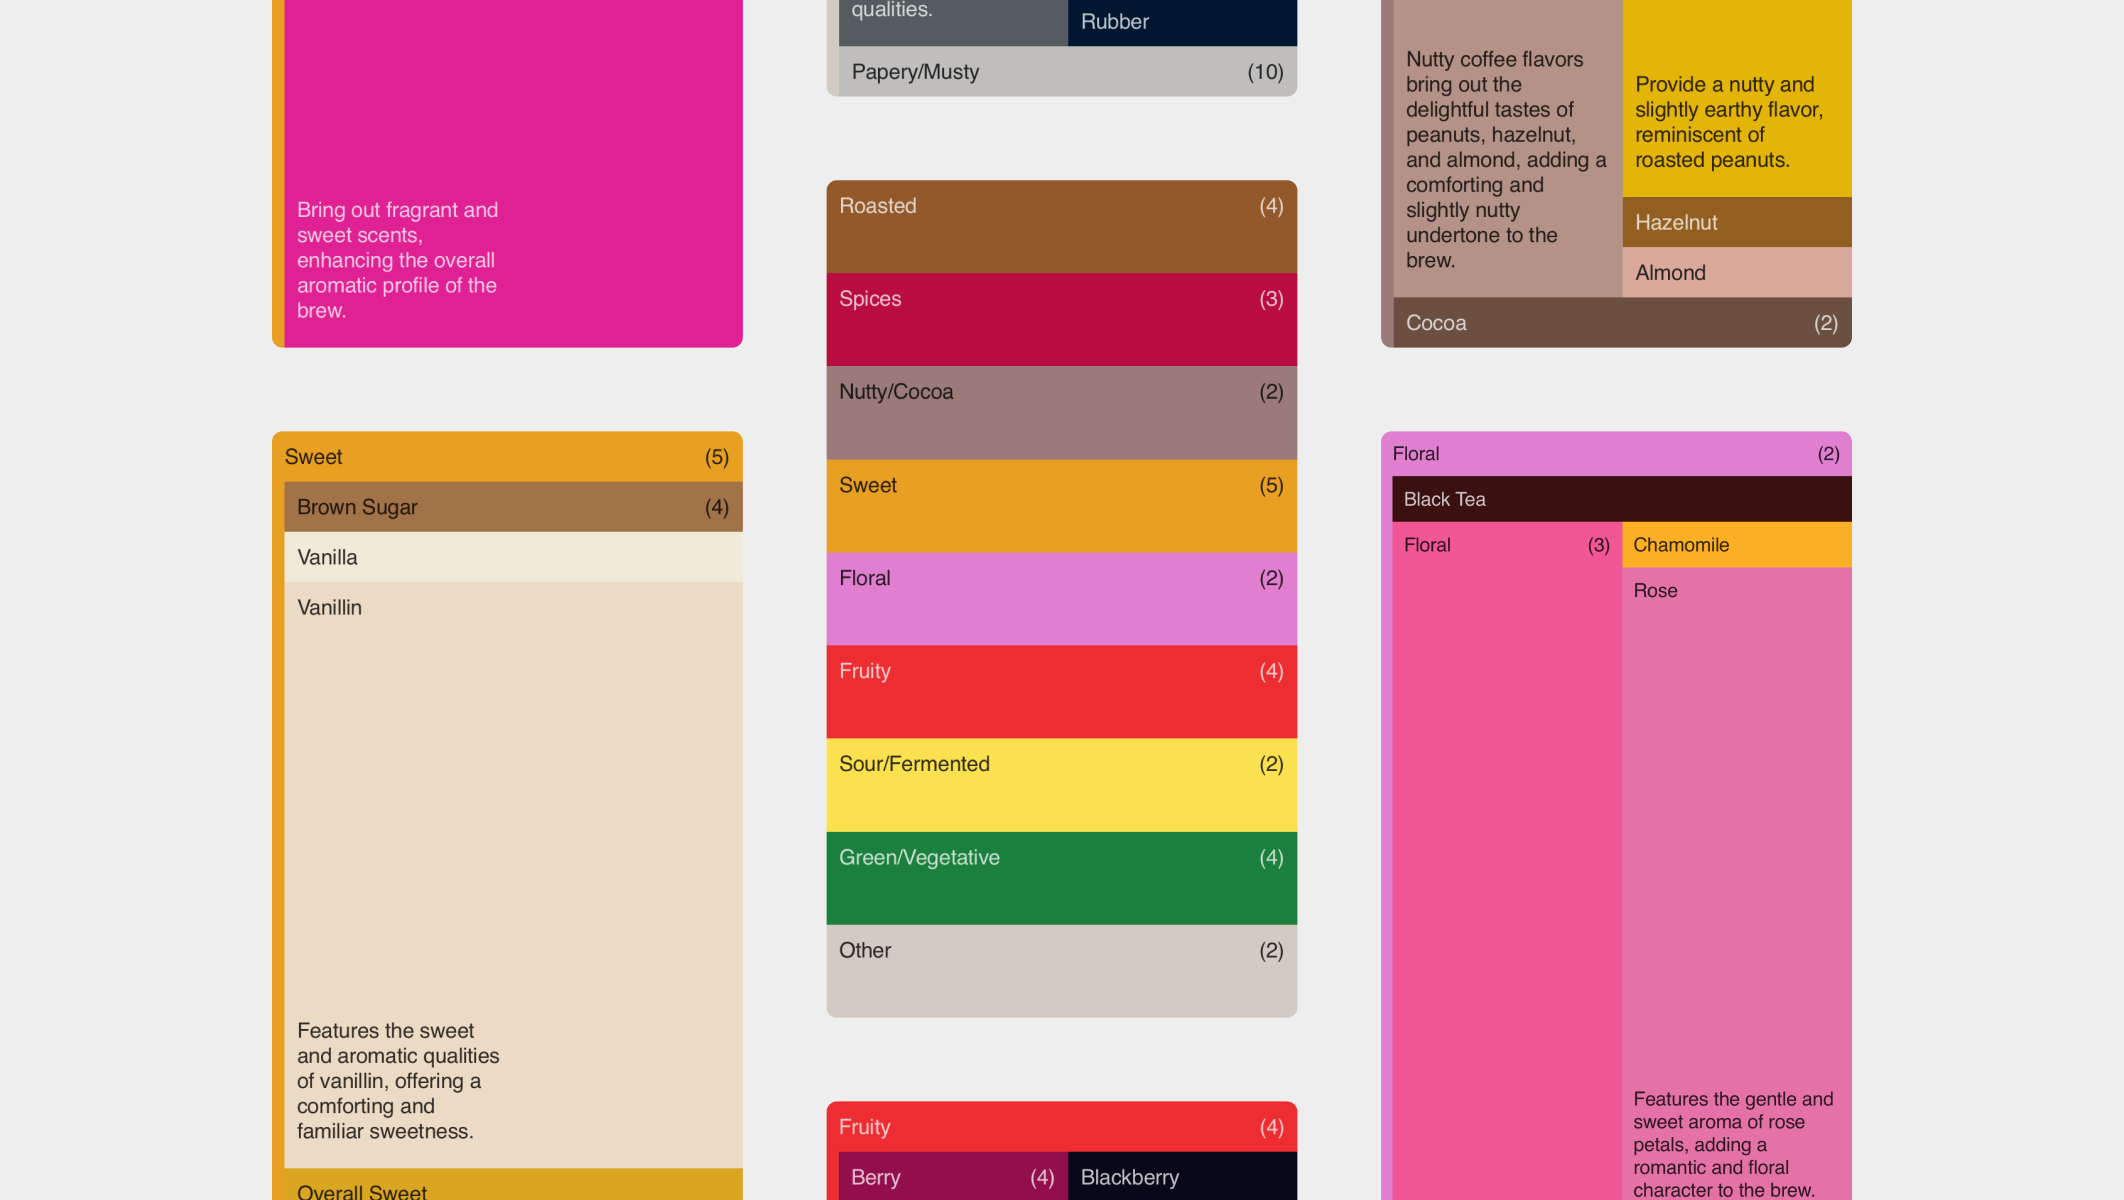
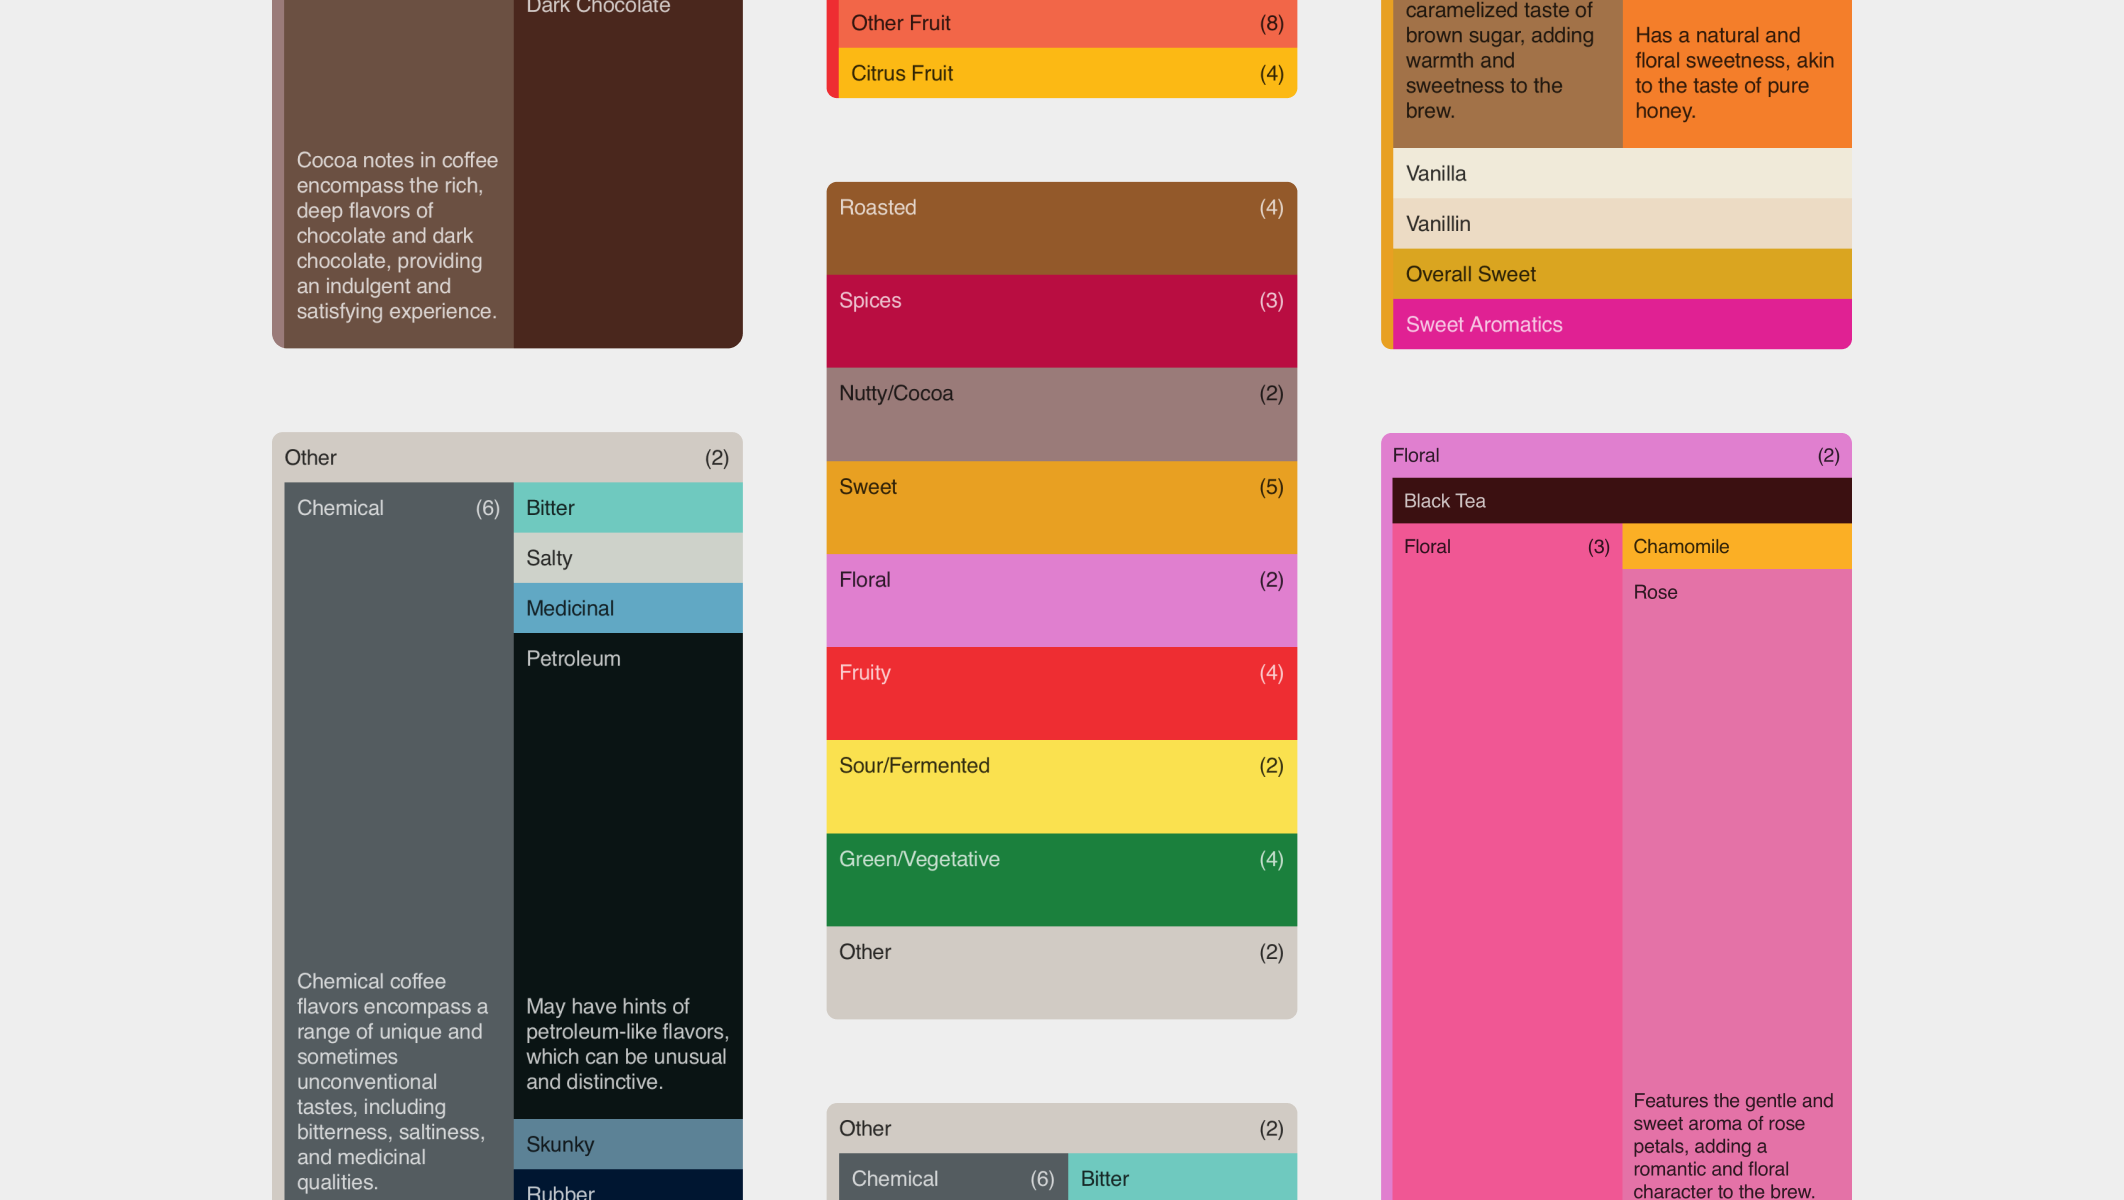
Add flavor tree

diff --git a/index.html b/index.html
@@ -102,12 +102,14 @@
             </div>
 
             <!-- Flavor Tree -->
-            <div class="hidden work-container">
+            <div class="work-container">
                 <div class="work-images no-scrollbar">
-                    <img src="./src/images/flavor-tree/flavor-tree-0.png" alt="Work 0" class="wide-image">
+                    <img src="./src/images/flavor-tree/flavor-tree-1.png" alt="Flavor Tree 1">
+                    <img src="./src/images/flavor-tree/flavor-tree-2.png" alt="Flavor Tree 2">
+                    <img src="./src/images/flavor-tree/flavor-tree-3.png" alt="Flavor Tree 3">
                 </div>
                 <div class="work-description">
-                    <h2>Flavor Tree</h2>
+                    <h2>Flavor Tree (Interactive prototype)</h2>
                     <p class="max-w-lg">
                         Translating the coffee flavor lexicon into an application to represent the cumulative relationships between coffee flavors in a clear and intuitive manner.
                     </p>
